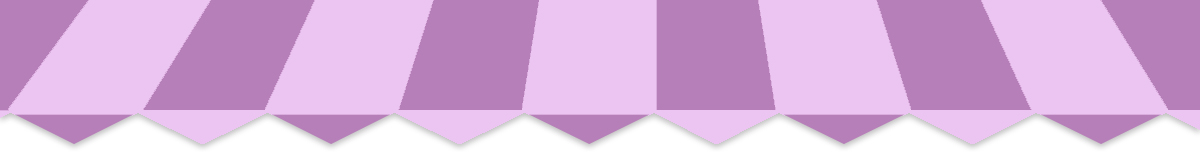
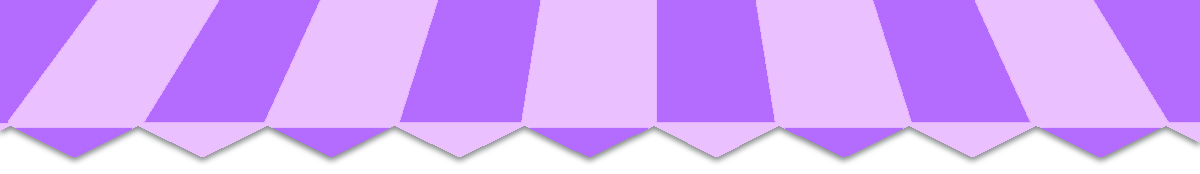
change

diff --git a/index.html b/index.html
@@ -4,29 +4,68 @@
   <title>Mrs Walkers Ice Cream</title>
 <link rel="stylesheet" type="text/css" href="style/style.css">
 </head>
-
- <img src="assets/images/awning.jpg">
-
 <body>
-	<div class="header">
-		<div class="logo container">
-			<h1><img src="assets/images/logo.jpg" align="left" height="162px" width="129px">;</h1>
-			<div class="nav flex space-between">
-			<a href="#">Locations</a>
-			<a href="#">Cakes</a>
-			<a href="#">Specialties</a>
-			<a href="#">Contact Us</a>
+	<div class="awning"></div>
+	<div class="wrapper">
+		<div id="nav" class="header">
+			<div class="logo container">
+				<img src="assets/images/logo.jpg" align="left" height="162px" width="129px"></img>
+			</div>
+			<div id="nav_wrapper"class="nav flex space-between">
+				<ul>
+					<li><a href="#">Locations</a>
+						<ul>
+							<li><a href="#">Toms River</a>
+							<li><a href="#">Lakehurst</a>
+							<li><a href="#">Forked River</a>
+							<li><a href="#">Beachwood</a>
 
+						</ul>
+					</li>
+					
+					<li><a href="#">Cakes</a>
+						<ul>
+							<li><a href="#">Virtually Create</a>
+							<li><a href="#">Cake Gallery</a>
+
+						</ul>
+					</li>	
+					
+					<li><a href="#">Specialties</a>
+						<ul>
+							<li><a href="#">Monthly Specials</a>
+							<li><a href="#">Specialties</a>
+
+						</ul>	
+					</li>
+						
+					<li><a href="#">Contact Us</a>
+						<ul>
+				</ul>
+			</div>
 		</div>
-<body>
-<img src="assets/images/homeicecream.jpg" align="middle">
 
-	<div class="body">
-	<html>
+<body background="assets/images/sprinkles.png">
 
-</body>
-	
-	<div class="footer">
+		<div class="columns">
+			<div class="box">
+			Click Here for
+			Monthly Specials
+			</div>
+			<div class="box">
+				Hours
+			</div>
+			<div class="box">
+				SPOT on Rewards
+			</div>
+		</div>
+		<div class="text">
+			Mrs. Walker's has been providing high-quality products since we opened our doors in 1986. Every day, we strive to provide you with friendly service and the best ice cream there is.  We pride ourselves at being the top product with great value in our industry. We genuinely care about our customers and want to insure them with a great all around experience with our service and our products. Our products and services are not limited, so feel free to ask us what it is you are looking for and we will be sure to help you any way we can. Our menu is full of countless sundae variations. Choose between numerous flavors, over 50, and plentiful amounts of delicous toppings. From hot fudge to fresh fruit toppings, enjoy your ice cream as delightful as possible. We provide featured items such as milkshakes, cakes, blend-ins, splits, sundaes, floats, italian ices, gelatis, frozen novelties, and more! Stop by at our main location in Forked River, NJ or enjoy our award winning ice cream in other locations including Toms River, Beachwood, Manahawkin, and Lakehurst. 
+		</div>
 	</div>
+	<div class="footer"></div>
+
+</div>
 </body>
+
 </html>

diff --git a/style/style.css b/style/style.css
@@ -1,20 +1,42 @@
-.main-container{
-	width:1200px;
-	margin:0-auto;
-}
 body {
 	margin: 0;
 	font-family: helvetica, arial, sans-serif;
-	background-color: #f9f9fa;
+}
+
+.awning {
+	width:100%;
+	height:160px;
+	background:url(../assets/images/awning.jpg) repeat-x ;
+	position:fixed;
+	top:0;
+	left:0;
+}
+
+.wrapper{
+	max-width:1200px;
+	margin:0 auto;
+	background-color:pink;
+	margin-bottom:100px;
+}
+
+.footer{
+	width:100%;
+	height:75px;
+	background:url(../assets/images/footer.jpg) repeat-x ;
+	position:fixed;
+	bottom:0;
+	left:0;
+
 }
 
 .header {
-	border-bottom: 10px solid #e6b2ed;
-	height: 220px; 
+	background:url(../assets/images/homeicecream.jpg) repeat;
+	border-bottom: 10px solid #fff;
+	margin-top:160px;
+	height:380px;
 }
 
-.logo h1{
-	color:#fff;
+.logo {
 	float:left;
 	padding-top: 30px;
 }
@@ -32,6 +54,8 @@ body {
 	margin-top: 110px;
 	width:400px;
 	float:right;
+	background-color:#a052ab;
+	padding:20px;
 }
 .nav a{
 	color:inherit;
@@ -45,4 +69,32 @@ body {
 	box-sizing: border-box;
 	margin: 0 auto;
 	width: 800px;
+}
+.columns{
+	background-color: #eac4f0;
+	padding:20px;
+	height:200px;
+	text-align: center;
+}
+
+.text{
+	background-color:purple;
+	padding:20px;
+	border-top:10px white solid;
+	font color: white;
+}
+
+.box{
+	background-color:#a052ab;
+	padding:20px;
+	margin: 10px;
+	width:300px;
+	float:left;
+}
+footer{
+	position: fixed;
+	width:100%;
+	bottom:0;
+}
+
 }
